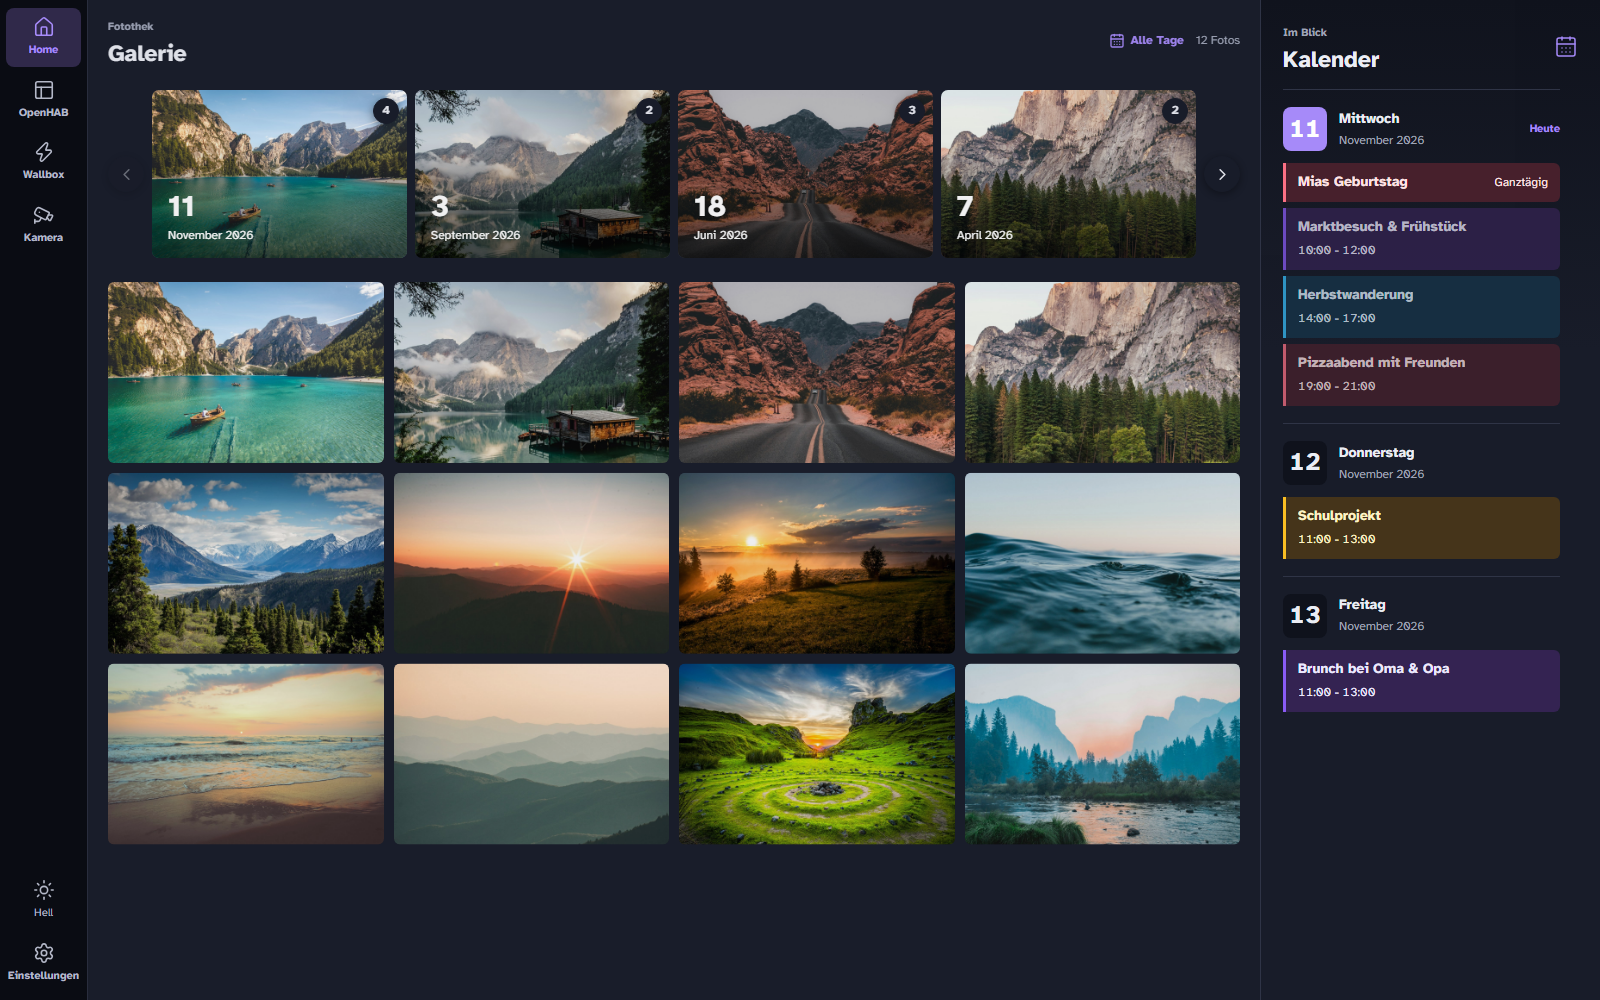
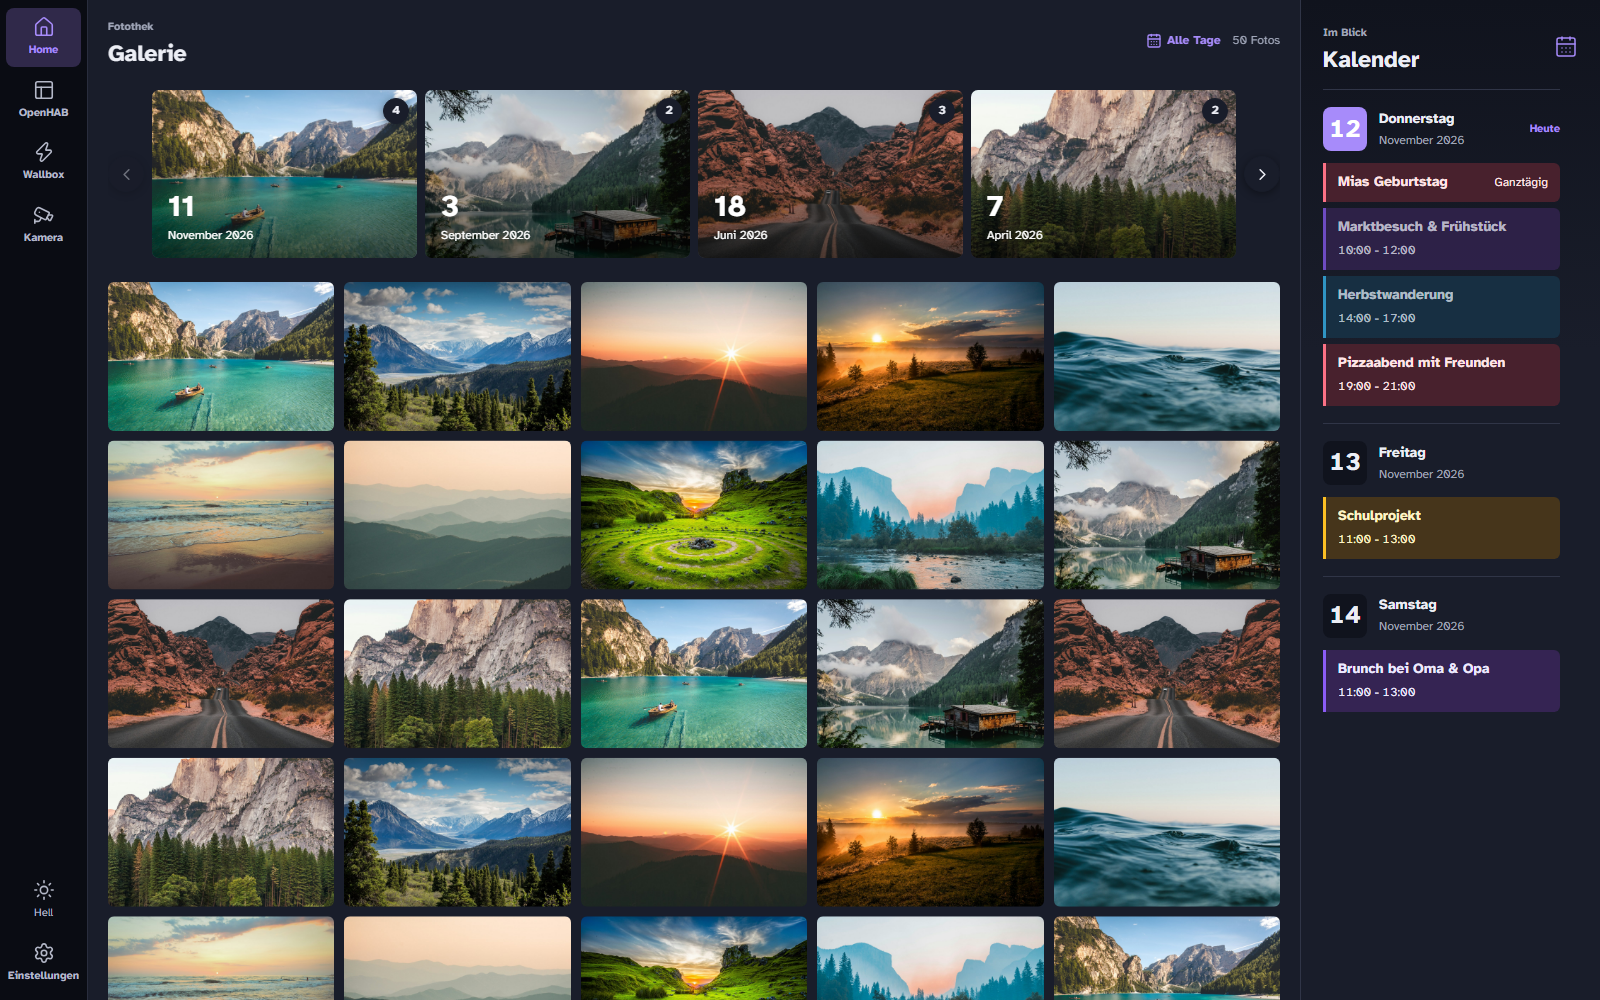
Gallery: Scroll moments away

diff --git a/ui/src/app/feature-home/gallery/gallery.html b/ui/src/app/feature-home/gallery/gallery.html
@@ -17,75 +17,83 @@
       </div>
     </div>
   </header>
-  @if (memoryDate()) {
-    <div class="moment-strip">
-      @if (service.memoryLoading() && !memoryImages().length) {
-        @for (placeholder of [1, 2, 3, 4]; track placeholder) {
-          <div class="moment-placeholder" aria-hidden="true"></div>
-        }
-      } @else {
-        @for (image of memoryImages(); track image.id; let index = $index) {
-          <div class="moment-card">
-            <button type="button" class="moment-tile" (click)="openMomentView(image, index)" [title]="image.name" aria-haspopup="dialog">
-              <img [alt]="image.name" [blobSrc]="image.thumbnail$ | async" />
-              <div class="moment-caption">
-                <span class="moment-day">{{ image.takenAt | date: 'd' }}</span>
-                <span class="moment-month">{{ image.takenAt | date: 'MMMM yyyy' }}</span>
-              </div>
-            </button>
-            @if (service.selectedMemory()?.days?.[index]?.count; as count) {
-              <span class="moment-count" [attr.aria-label]="count + ' Fotos an diesem Tag'">
-                {{ count }}
-              </span>
-            }
-          </div>
-        }
-      }
-      <button
-        type="button"
-        class="moment-step moment-step-older"
-        (click)="browseOlderMemory()"
-        [disabled]="!canBrowseOlder()"
-        title="Älterer Erinnerungstag"
-        aria-label="Älterer Erinnerungstag"
-      >
-        <svg lucideChevronRight aria-hidden="true"></svg>
-      </button>
-      <button
-        type="button"
-        class="moment-step moment-step-newer"
-        (click)="browseNewerMemory()"
-        [disabled]="!canBrowseNewer()"
-        title="Neuerer Erinnerungstag"
-        aria-label="Neuerer Erinnerungstag"
-      >
-        <svg lucideChevronLeft aria-hidden="true"></svg>
-      </button>
-      @if (service.memoryError()) {
-        <p class="memory-error" role="status">{{ service.memoryError() }}</p>
-      }
-    </div>
-  }
   <div class="gallery-body">
-    @if (service.error()) {
-      <p class="agenda-empty" role="status">{{ service.error() }}</p>
-    }
-    @if (!images().length) {
-      @if (service.loading()) {
-        <div class="gallery-placeholder" aria-hidden="true">
-          @for (placeholder of [1, 2, 3, 4, 5, 6]; track placeholder) {
-            <div class="photo-placeholder"></div>
-          }
-        </div>
-      } @else {
-        <div class="gallery-empty">
-          <svg lucideImages aria-hidden="true"></svg>
-          <p>Noch keine Fotos.</p>
-        </div>
-      }
-    }
     <div #gallery class="photo-viewport">
       <div class="photo-canvas" [style.height.px]="totalHeight()">
+        <div #galleryHeader class="gallery-scroll-header">
+          @if (memoryDate()) {
+            <div class="moment-strip">
+              @if (service.memoryLoading() && !memoryImages().length) {
+                @for (placeholder of [1, 2, 3, 4]; track placeholder) {
+                  <div class="moment-placeholder" aria-hidden="true"></div>
+                }
+              } @else {
+                @for (image of memoryImages(); track image.id; let index = $index) {
+                  <div class="moment-card">
+                    <button
+                      type="button"
+                      class="moment-tile"
+                      (click)="openMomentView(image, index)"
+                      [title]="image.name"
+                      aria-haspopup="dialog"
+                    >
+                      <img [alt]="image.name" [blobSrc]="image.thumbnail$ | async" />
+                      <div class="moment-caption">
+                        <span class="moment-day">{{ image.takenAt | date: 'd' }}</span>
+                        <span class="moment-month">{{ image.takenAt | date: 'MMMM yyyy' }}</span>
+                      </div>
+                    </button>
+                    @if (service.selectedMemory()?.days?.[index]?.count; as count) {
+                      <span class="moment-count" [attr.aria-label]="count + ' Fotos an diesem Tag'">
+                        {{ count }}
+                      </span>
+                    }
+                  </div>
+                }
+              }
+              <button
+                type="button"
+                class="moment-step moment-step-older"
+                (click)="browseOlderMemory()"
+                [disabled]="!canBrowseOlder()"
+                title="Älterer Erinnerungstag"
+                aria-label="Älterer Erinnerungstag"
+              >
+                <svg lucideChevronRight aria-hidden="true"></svg>
+              </button>
+              <button
+                type="button"
+                class="moment-step moment-step-newer"
+                (click)="browseNewerMemory()"
+                [disabled]="!canBrowseNewer()"
+                title="Neuerer Erinnerungstag"
+                aria-label="Neuerer Erinnerungstag"
+              >
+                <svg lucideChevronLeft aria-hidden="true"></svg>
+              </button>
+              @if (service.memoryError()) {
+                <p class="memory-error" role="status">{{ service.memoryError() }}</p>
+              }
+            </div>
+          }
+          @if (service.error()) {
+            <p class="agenda-empty" role="status">{{ service.error() }}</p>
+          }
+          @if (!images().length) {
+            @if (service.loading()) {
+              <div class="gallery-placeholder" aria-hidden="true">
+                @for (placeholder of [1, 2, 3, 4, 5, 6]; track placeholder) {
+                  <div class="photo-placeholder"></div>
+                }
+              </div>
+            } @else {
+              <div class="gallery-empty">
+                <svg lucideImages aria-hidden="true"></svg>
+                <p>Noch keine Fotos.</p>
+              </div>
+            }
+          }
+        </div>
         @for (row of virtualItems(); track row.key) {
           <div
             class="photo-grid"

diff --git a/ui/src/app/feature-home/gallery/gallery.ts b/ui/src/app/feature-home/gallery/gallery.ts
@@ -42,6 +42,7 @@ export class GalleryComponent {
   private readonly destroyRef = inject(DestroyRef);
 
   readonly gallery = viewChild<ElementRef<HTMLElement>>('gallery');
+  readonly galleryHeader = viewChild<ElementRef<HTMLElement>>('galleryHeader');
   readonly columns = computed(() => (this.layout.desktop$() ? Math.max(4, Math.floor((this.viewportWidth() + 10) / 230)) : 3));
   readonly virtualItems = signal<VirtualItem[]>([]);
   readonly totalHeight = signal(0);
@@ -66,6 +67,7 @@ export class GalleryComponent {
   );
   readonly canBrowseNewer = computed(() => this.selectedMemoryIndex() > 0);
   private readonly viewportWidth = signal(0);
+  private readonly galleryHeaderHeight = signal(0);
   private readonly measuredRatios = new WeakMap<ViewerImage, number>();
   private readonly virtualizer = new Virtualizer<HTMLElement, HTMLElement>({
     count: 0,
@@ -102,12 +104,17 @@ export class GalleryComponent {
     afterNextRender(() => {
       const cleanup = this.virtualizer._didMount();
       const element = this.gallery()!.nativeElement;
+      const header = this.galleryHeader()!.nativeElement;
       const observer = new ResizeObserver(() => this.viewportWidth.set(element.clientWidth));
+      const headerObserver = new ResizeObserver(() => this.galleryHeaderHeight.set(header.offsetHeight));
       observer.observe(element);
+      headerObserver.observe(header);
       this.viewportWidth.set(element.clientWidth);
+      this.galleryHeaderHeight.set(header.offsetHeight);
       this.virtualizer._willUpdate();
       this.destroyRef.onDestroy(() => {
         observer.disconnect();
+        headerObserver.disconnect();
         cleanup();
       });
     });
@@ -120,9 +127,11 @@ export class GalleryComponent {
       const images = this.images();
       const columns = this.columns();
       const width = this.viewportWidth();
+      const headerHeight = this.galleryHeaderHeight();
       this.virtualizer.setOptions({
         ...this.virtualizer.options,
         count: Math.ceil(images.length / columns),
+        paddingStart: headerHeight,
         getItemKey: (index) => `${columns}:${images[index * columns]?.id ?? index}`,
       });
       if (columns !== previousColumns || width !== previousWidth || images !== previousImages) {

diff --git a/ui/e2e/gallery-scroll.spec.ts b/ui/e2e/gallery-scroll.spec.ts
@@ -1,0 +1,52 @@
+import { expect, test } from '@playwright/test';
+
+for (const viewport of [
+  { width: 1600, height: 1000 },
+  { width: 600, height: 700 },
+]) {
+  test(`keeps moments and photos separate while scrolling at ${viewport.width}px`, async ({ page }) => {
+    await page.setViewportSize(viewport);
+    await page.goto('/gallery');
+
+    const scroll = page.locator('.photo-viewport');
+    const moments = scroll.locator('.moment-strip');
+    const firstPhoto = scroll.locator('.photo-tile').first();
+    await expect(moments).toBeVisible();
+    await expect(firstPhoto).toBeVisible();
+    await expect
+      .poll(async () => {
+        const bounds = await moments.boundingBox();
+        const photo = await firstPhoto.boundingBox();
+        return bounds && photo ? photo.y - (bounds.y + bounds.height) : -1;
+      })
+      .toBeGreaterThanOrEqual(20);
+
+    await scroll.evaluate((element) => {
+      element.scrollTop = element.scrollHeight;
+    });
+    await expect.poll(() => scroll.evaluate((element) => element.scrollHeight - element.clientHeight)).toBeGreaterThan(200);
+    await scroll.evaluate((element) => {
+      element.scrollTop = 500;
+    });
+    await expect.poll(() => scroll.evaluate((element) => element.scrollTop)).toBeGreaterThan(0);
+    await expect
+      .poll(async () => {
+        const strip = await moments.boundingBox();
+        const area = await scroll.boundingBox();
+        return strip && area ? strip.y + strip.height - area.y : 1;
+      })
+      .toBeLessThanOrEqual(0);
+    await scroll.evaluate((element) => {
+      element.scrollTop = element.scrollHeight;
+    });
+    await expect.poll(() => scroll.locator('.photo-tile[title]').count()).toBeGreaterThan(0);
+    await expect(scroll.locator('.photo-tile[title="Waldspaziergang (50)"]')).toBeVisible();
+
+    await scroll.evaluate((element) => {
+      element.scrollTop = 0;
+    });
+    await expect.poll(() => scroll.evaluate((element) => element.scrollTop)).toBe(0);
+    await expect(moments).toBeVisible();
+    await expect(firstPhoto).toBeVisible();
+  });
+}

diff --git a/ui/e2e/photo-viewer.spec.ts b/ui/e2e/photo-viewer.spec.ts
@@ -7,7 +7,7 @@ test('keeps the filmstrip thumbnails clear of the scrollbar and scrollable', asy
 
   const viewer = page.getByRole('dialog');
   const filmstrip = viewer.locator('cdk-virtual-scroll-viewport');
-  await expect(viewer).toContainText('Bild 1 / 12');
+  await expect(viewer).toContainText('Bild 1 / 50');
   const spacing = await filmstrip.evaluate((viewport) => {
     const thumbnail = viewport.querySelector('button')!.getBoundingClientRect();
     const bounds = viewport.getBoundingClientRect();
@@ -23,8 +23,10 @@ test('keeps the filmstrip thumbnails clear of the scrollbar and scrollable', asy
 
   await filmstrip.evaluate((viewport) => (viewport.scrollLeft = viewport.scrollWidth));
   await expect.poll(() => filmstrip.evaluate((viewport) => viewport.scrollLeft)).toBeGreaterThan(0);
-  const lastThumbnail = filmstrip.getByRole('button', { name: 'Abendstimmung am Wasser' });
+  const lastThumbnail = filmstrip.getByRole('button').last();
   await expect(lastThumbnail).toBeVisible();
+  const imageName = await lastThumbnail.getAttribute('title');
+  expect(imageName).toBeTruthy();
   await lastThumbnail.click();
-  await expect(viewer.locator('header h2')).toContainText('Abendstimmung am Wasser');
+  await expect(viewer.locator('header h2')).toHaveText(imageName!);
 });

diff --git a/ui/src/styles.css b/ui/src/styles.css
@@ -234,7 +234,7 @@ body {
     display: grid;
     height: 100%;
     min-height: 0;
-    grid-template-columns: minmax(0, 1fr) minmax(300px, 340px);
+    grid-template-columns: minmax(0, 1fr) minmax(260px, 300px);
     background: var(--surface);
   }
   .home-calendar,
@@ -408,7 +408,6 @@ body {
     display: grid;
     height: 168px;
     min-height: 0;
-    flex: 0 0 168px;
     grid-template-columns: 36px repeat(4, minmax(0, 1fr)) 36px;
     grid-template-rows: minmax(0, 1fr);
     gap: 8px;
@@ -806,6 +805,9 @@ body {
     position: relative;
     width: 100%;
   }
+  .gallery-scroll-header {
+    display: flow-root;
+  }
   .photo-grid {
     position: absolute;
     top: 0;
@@ -1052,7 +1054,7 @@ body {
   }
   @media (min-width: 640px) and (max-width: 1023px) {
     .home-layout {
-      grid-template-columns: minmax(0, 1fr) minmax(260px, 290px);
+      grid-template-columns: minmax(0, 1fr) minmax(208px, 232px);
     }
     .home-calendar {
       padding: 16px 16px 0;
@@ -1140,7 +1142,6 @@ body {
     }
     .moment-strip {
       height: 130px;
-      flex-basis: 130px;
       grid-template-columns: 28px repeat(4, minmax(0, 1fr)) 28px;
       grid-template-rows: minmax(0, 1fr);
       gap: 5px;

diff --git a/ui/e2e/documentation.spec.ts b/ui/e2e/documentation.spec.ts
@@ -6,7 +6,7 @@ const screenshotPath = (name: string) => resolve(process.cwd(), '..', 'docs', 'i
 async function openHome(page: Page) {
   await page.goto('/home');
   await expect(page.getByRole('heading', { name: 'Galerie' })).toBeVisible();
-  await expect(page.getByRole('status').filter({ hasText: '12 Fotos' })).toBeVisible();
+  await expect(page.getByRole('status').filter({ hasText: '50 Fotos' })).toBeVisible();
   await expect
     .poll(
       () =>
@@ -41,7 +41,7 @@ test('captures the photo viewer', async ({ page }) => {
   await page.locator('.photo-viewport .photo-tile').first().click();
 
   const viewer = page.getByRole('dialog');
-  await expect(viewer).toContainText('Bild 1 / 12');
+  await expect(viewer).toContainText('Bild 1 / 50');
   await expect(viewer.locator('header h2')).not.toHaveClass(/italic/);
   await expect(viewer.locator('img[alt="Bergsee im Morgenlicht"]').first()).toBeVisible();
   await expect

diff --git a/server/src/main/java/cloud/heiss/dashboard/photos/PhotoSync.java b/server/src/main/java/cloud/heiss/dashboard/photos/PhotoSync.java
@@ -5,7 +5,6 @@ import java.time.ZoneId;
 import java.util.ArrayList;
 import java.util.HashMap;
 import java.util.HashSet;
-import java.util.List;
 import java.util.Map;
 import java.util.UUID;
 
